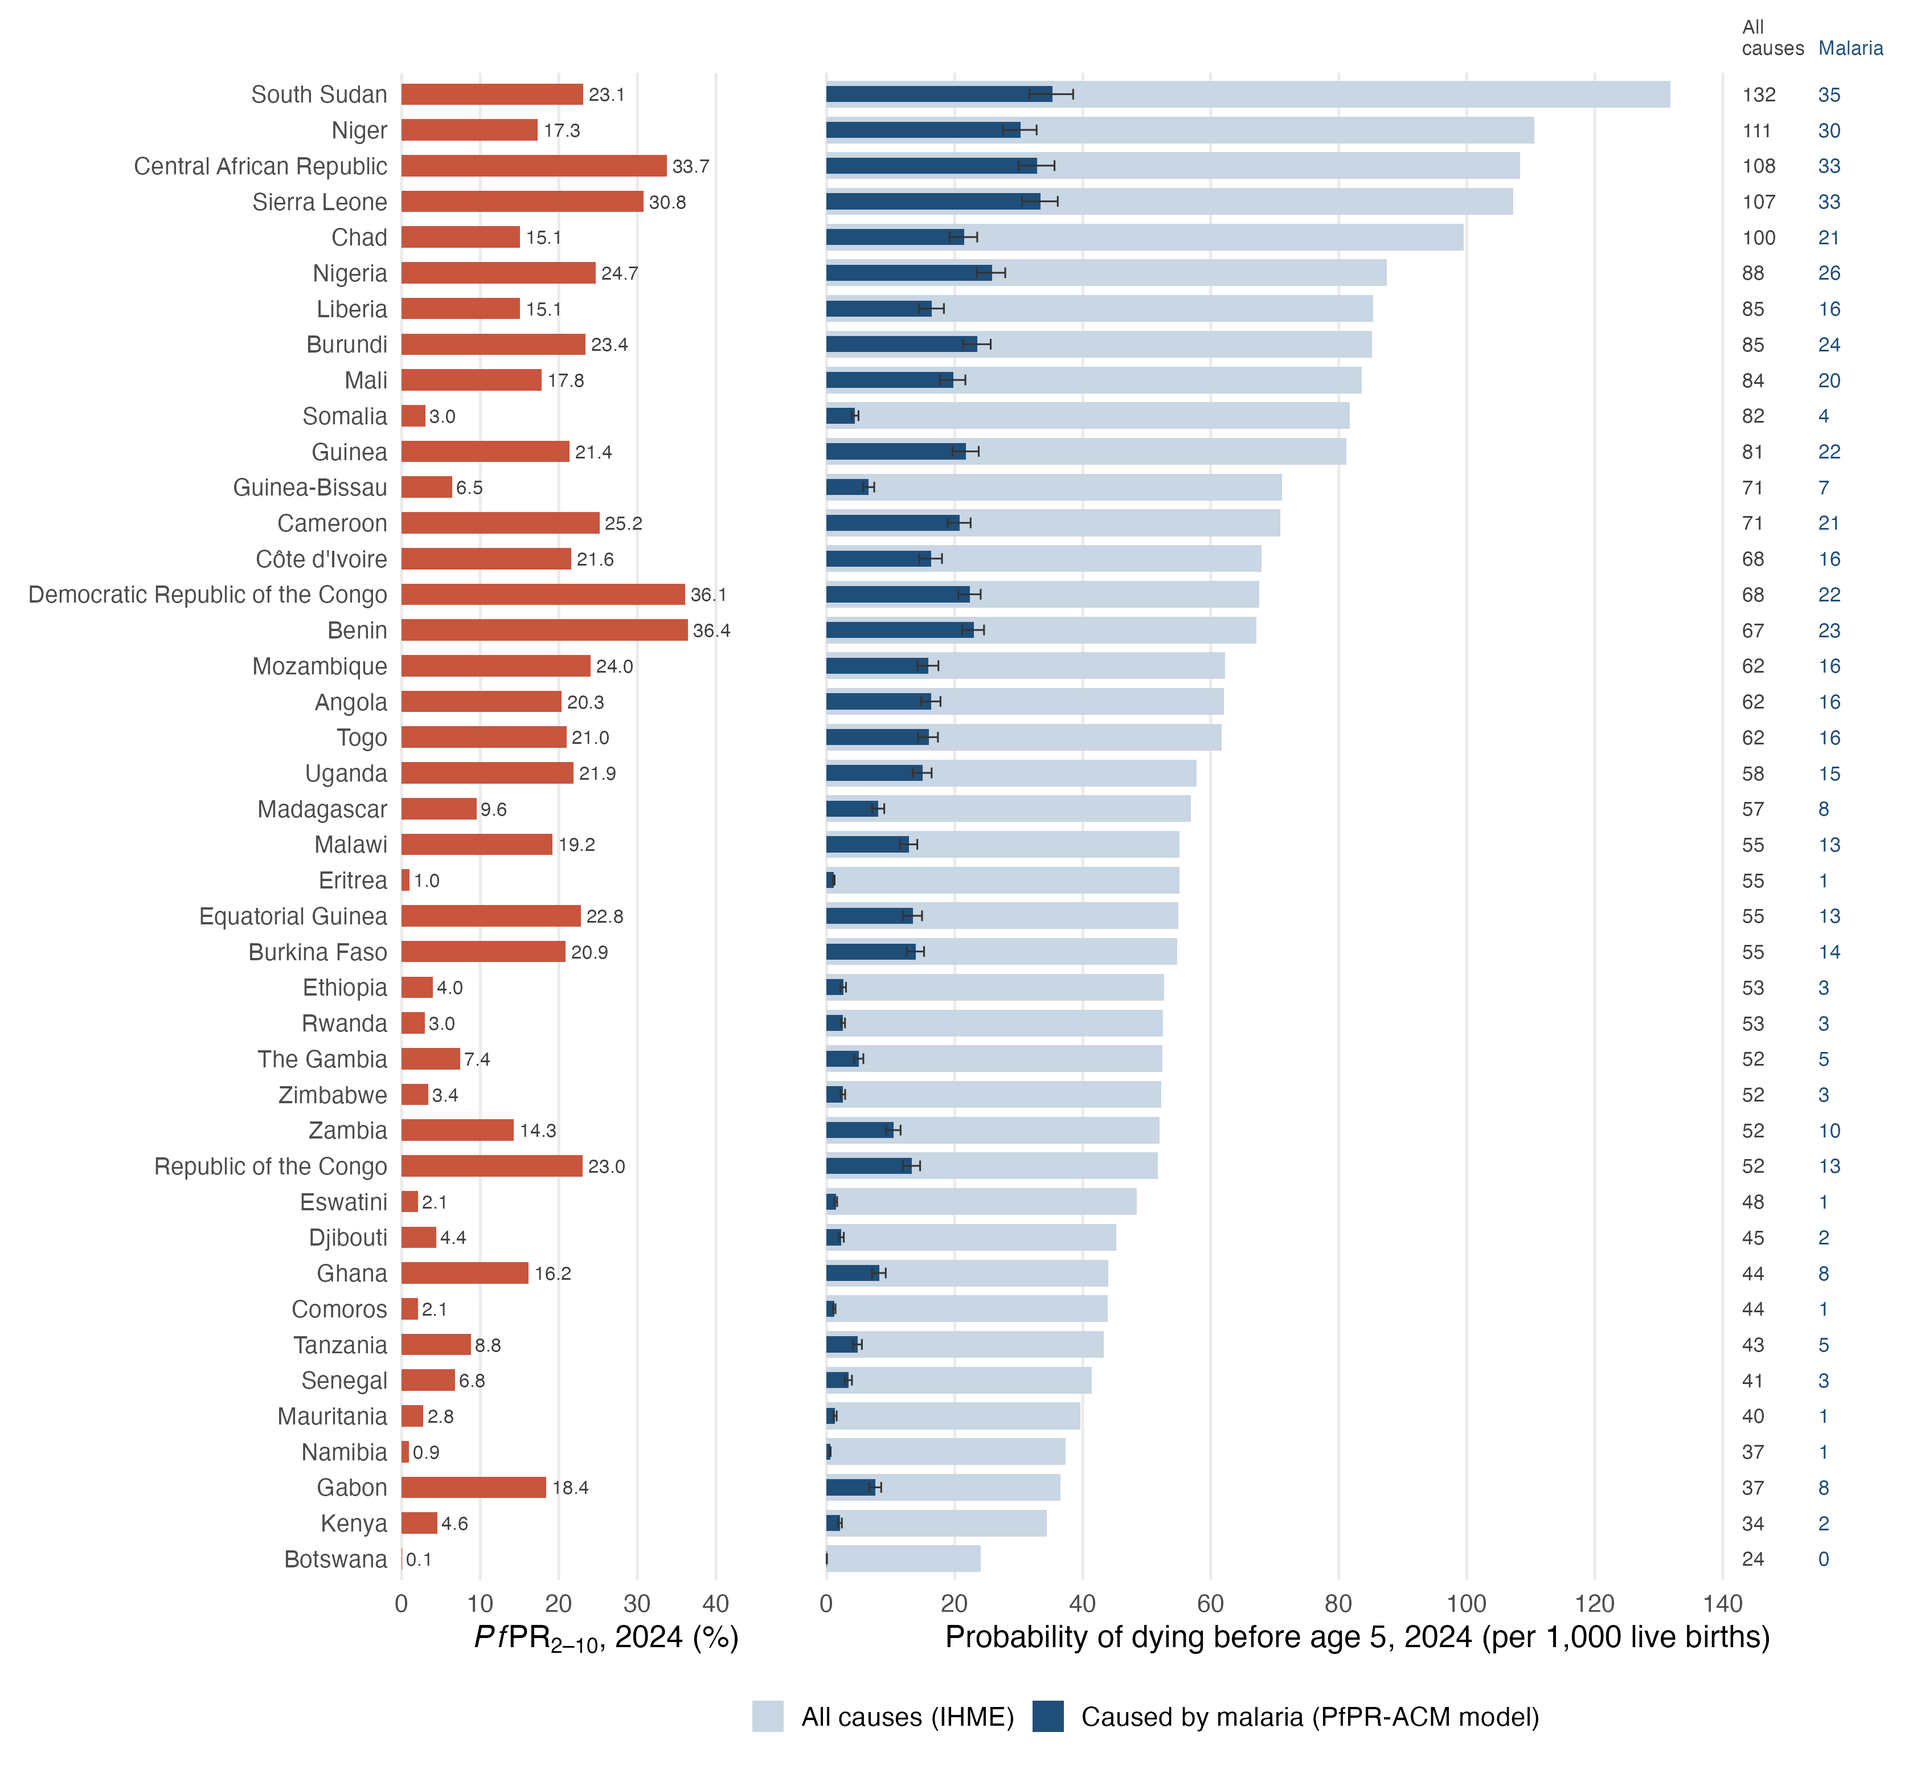
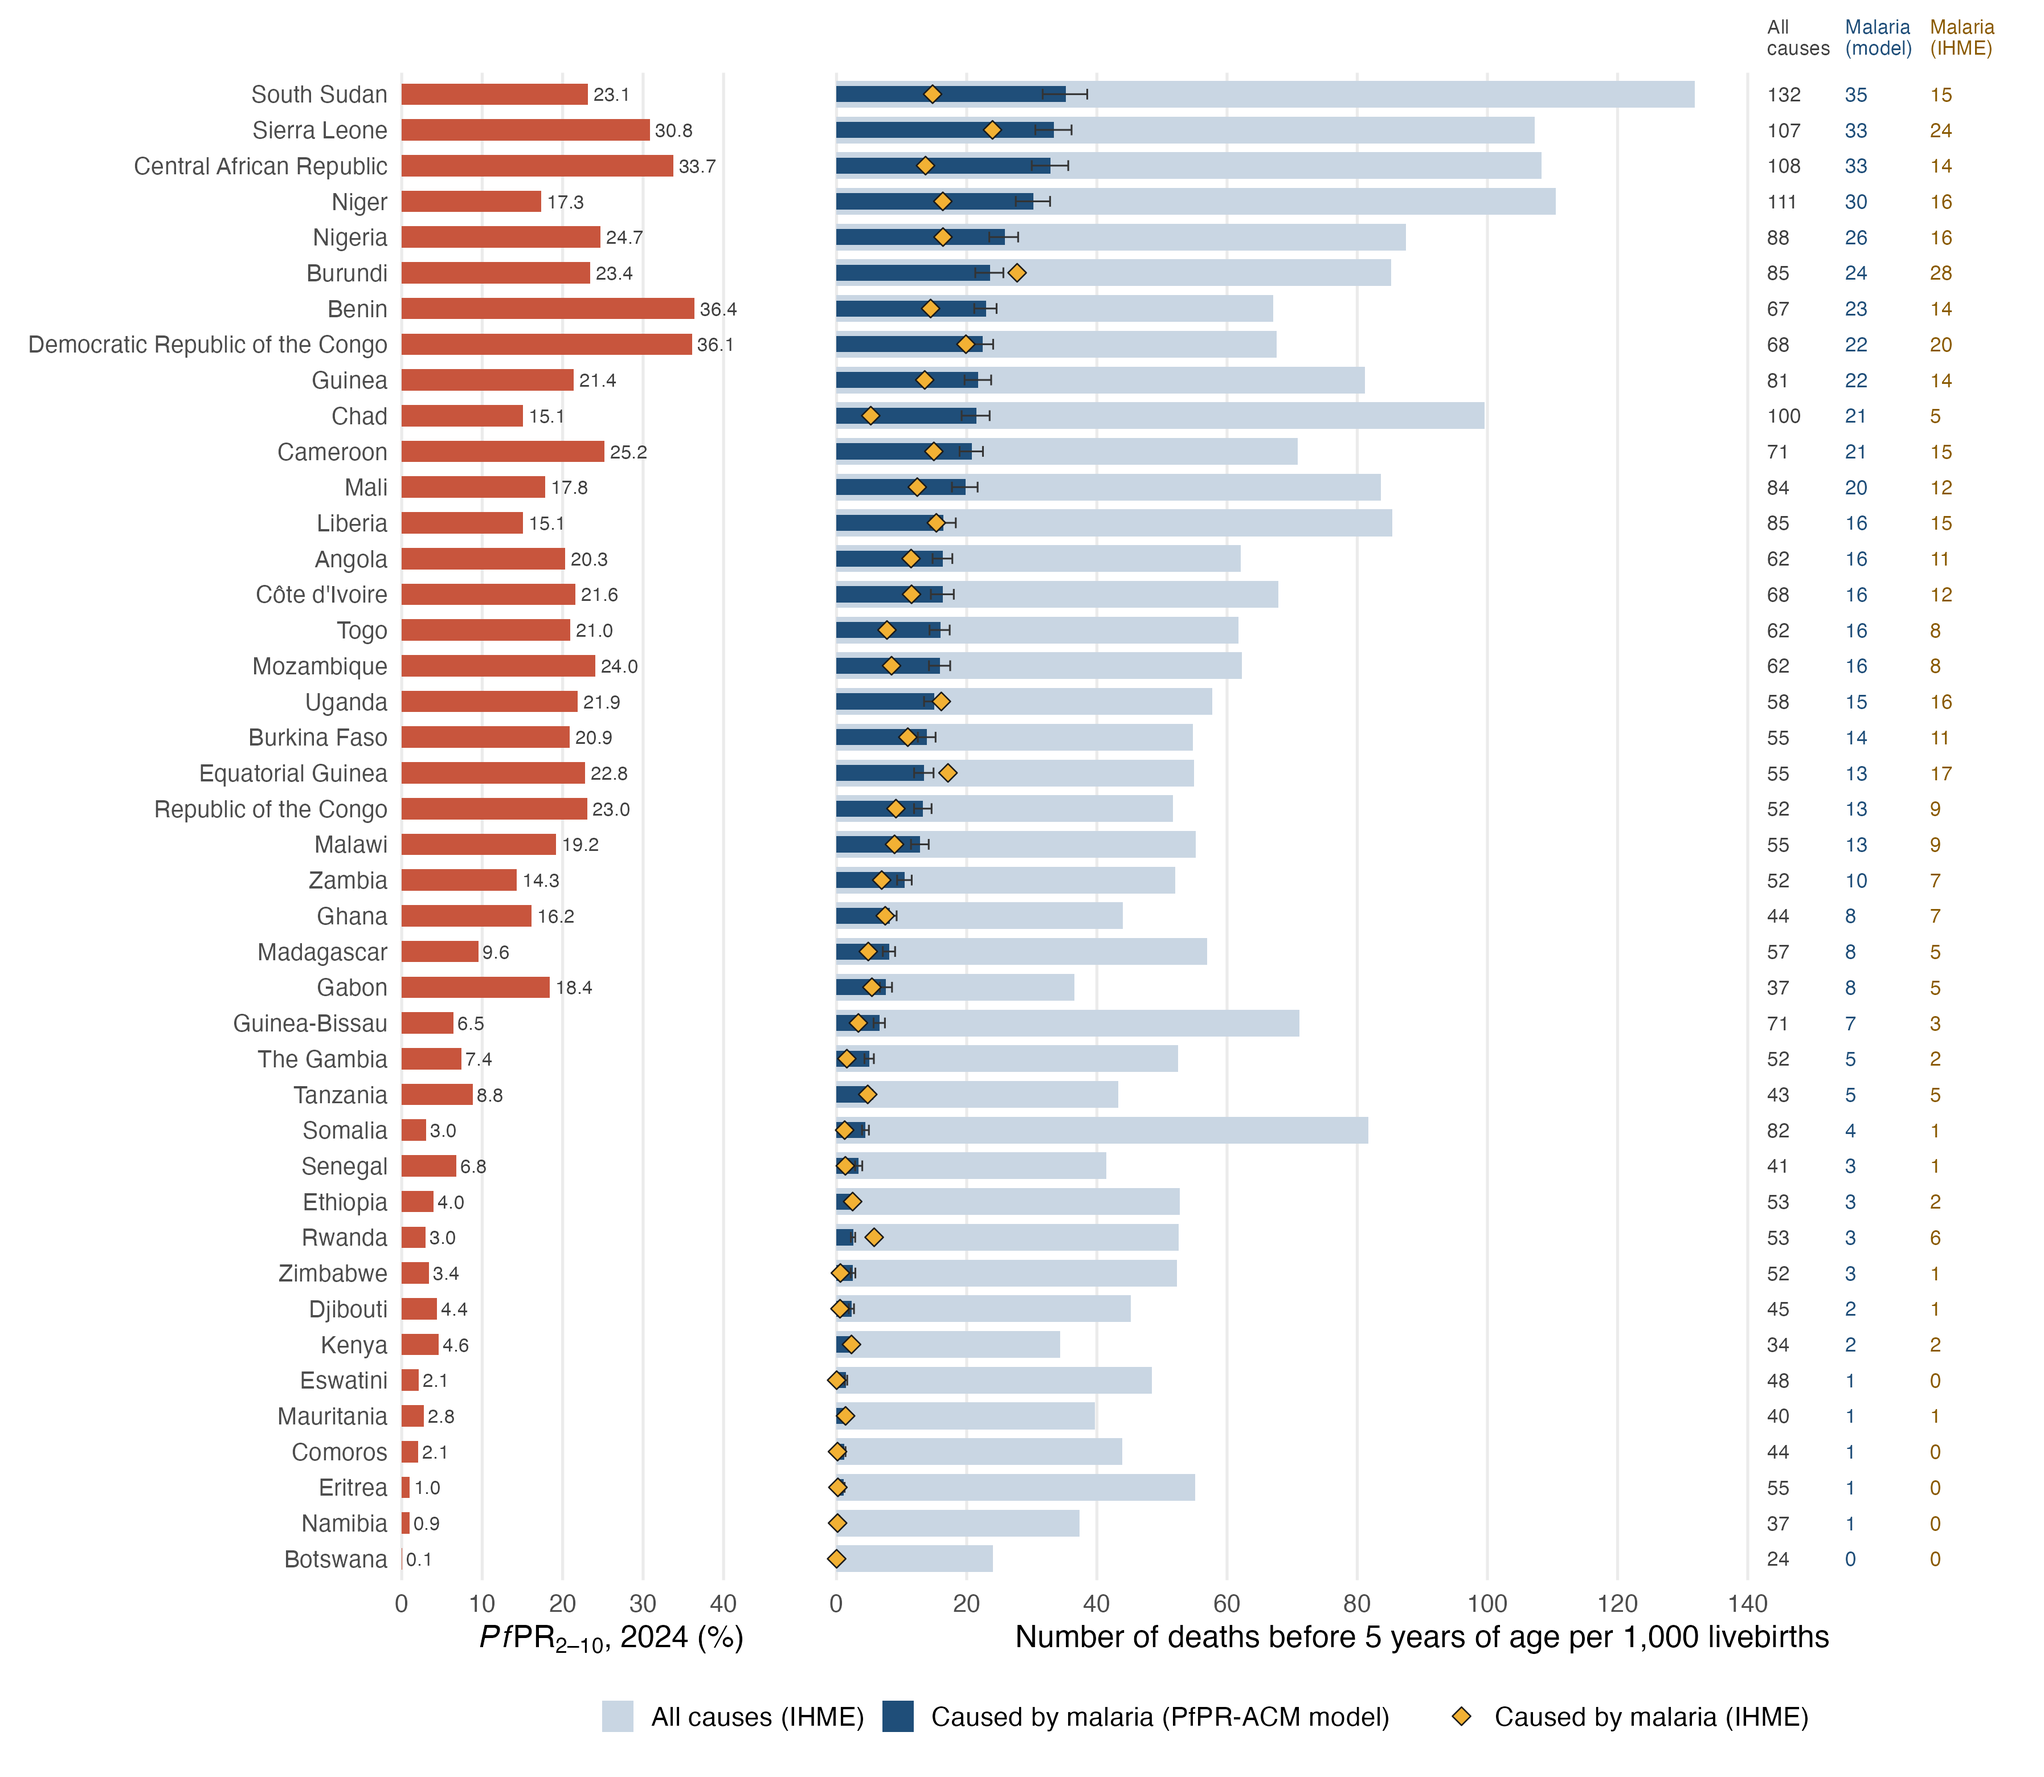
Figure 4: sort by malaria-caused probability, add IHME malaria, relabel axis
Countries are ordered by the model's malaria-caused probability. IHME's
own malaria-caused probability (5q0 minus 5q0 with IHME malaria death
rates removed by age) is added as diamonds and a third value column; the
right-panel axis reads 'Number of deaths before 5 years of age per 1,000
livebirths'. Rows still align to within 0.5 px.

diff --git a/results/cbh/primary_map_regional17_dhsmics_gamma2_v7/paper_figures/CAPTIONS.md b/results/cbh/primary_map_regional17_dhsmics_gamma2_v7/paper_figures/CAPTIONS.md
@@ -26,7 +26,7 @@ Malaria mortality before age 5 from the PfPR-ACM model compared with IHME and UN
 
 File: `fig4_under5_death_probability.png` (source `under5_probability/under5_death_probability_2024.png`; values in `under5_probability/under5_death_probability.csv`).
 
-Probability of dying before age 5 in 2024 per 1,000 live births, by country (42 sub-Saharan African countries in the burden comparison, ordered by the all-cause probability). Left: national MAP PfPR[2–10] in 2024, population-weighted (GPW 2020, all ages) over MAP-covered pixels, the prevalence at which each country's malaria-caused probability is evaluated (median 16.7%, range 0.1–36.4%). Right: all causes, from IHME age-specific all-cause death rates (light bars), and the part caused by malaria under the PfPR-ACM model (dark bars, with 95% intervals); both values are listed on the right. Probabilities are period life-table (synthetic-cohort) calculations, 5q0 = 1 − exp(−Σ_g H_g), over the model's seven age bands (<1, 1–5, 6–11, 12–23, 24–35, 36–47 and 48–59 completed months), with band cumulative hazards H_g from the IHME death rates. The malaria-caused probability is 5q0 minus the probability with malaria transmission removed, for which each band's hazard is multiplied by the model's hazard ratio for PfPR[2–10] = 0 versus the country's current population-weighted MAP prevalence. Intervals draw each band's log hazard ratio independently; they condition on the IHME rates and the fitted smoothing parameters. Zero prevalence lies below the observed exposure support, so the counterfactual is an extrapolation. Against UN IGME under-five mortality for 2024, the IHME-based all-cause probabilities have median ratio 1.07 and correlation 0.84; IHME and UN IGME differ markedly for some countries. The largest malaria-caused probabilities are in South Sudan (35 per 1,000), Sierra Leone (33) and Central African Republic (33); the median is 13 per 1,000, 21% of the all-cause probability.
+Probability of dying before age 5 in 2024 per 1,000 live births, by country (42 sub-Saharan African countries in the burden comparison, ordered by the probability caused by malaria). Left: national MAP PfPR[2–10] in 2024, population-weighted (GPW 2020, all ages) over MAP-covered pixels, the prevalence at which each country's malaria-caused probability is evaluated (median 16.7%, range 0.1–36.4%). Right: all causes, from IHME age-specific all-cause death rates (light bars), and the part caused by malaria under the PfPR-ACM model (dark bars, with 95% intervals), and the part caused by malaria implied by IHME cause-specific malaria death rates (diamonds, point estimates); all three values are listed on the right. Probabilities are period life-table (synthetic-cohort) calculations, 5q0 = 1 − exp(−Σ_g H_g), over the model's seven age bands (<1, 1–5, 6–11, 12–23, 24–35, 36–47 and 48–59 completed months), with band cumulative hazards H_g from the IHME death rates. The malaria-caused probability is 5q0 minus the probability with malaria transmission removed, for which each band's hazard is multiplied by the model's hazard ratio for PfPR[2–10] = 0 versus the country's current population-weighted MAP prevalence. The IHME value is 5q0 minus the probability with IHME's malaria death rates removed (late neonatal, post-neonatal and 1–4 years; IHME reports no early-neonatal malaria deaths). Across the 42 countries the model's malaria-caused probability is a median 1.59 times IHME's (range 0.44–83.13). Intervals draw each band's log hazard ratio independently; they condition on the IHME rates and the fitted smoothing parameters. Zero prevalence lies below the observed exposure support, so the counterfactual is an extrapolation. Against UN IGME under-five mortality for 2024, the IHME-based all-cause probabilities have median ratio 1.07 and correlation 0.84; IHME and UN IGME differ markedly for some countries. The largest malaria-caused probabilities are in South Sudan (35 per 1,000), Sierra Leone (33) and Central African Republic (33); the median is 13 per 1,000, 21% of the all-cause probability.
 
 ## Supplementary figure — PfPR and mortality by age (formerly Figure 2)
 

diff --git a/results/cbh/primary_map_regional17_dhsmics_gamma2_v7/under5_probability/CAPTION.md b/results/cbh/primary_map_regional17_dhsmics_gamma2_v7/under5_probability/CAPTION.md
@@ -1,3 +1,3 @@
 # Figure 4 caption
 
-Probability of dying before age 5 in 2024 per 1,000 live births, by country (42 sub-Saharan African countries in the burden comparison, ordered by the all-cause probability). Left: national MAP PfPR[2–10] in 2024, population-weighted (GPW 2020, all ages) over MAP-covered pixels, the prevalence at which each country's malaria-caused probability is evaluated (median 16.7%, range 0.1–36.4%). Right: all causes, from IHME age-specific all-cause death rates (light bars), and the part caused by malaria under the PfPR-ACM model (dark bars, with 95% intervals); both values are listed on the right. Probabilities are period life-table (synthetic-cohort) calculations, 5q0 = 1 − exp(−Σ_g H_g), over the model's seven age bands (<1, 1–5, 6–11, 12–23, 24–35, 36–47 and 48–59 completed months), with band cumulative hazards H_g from the IHME death rates. The malaria-caused probability is 5q0 minus the probability with malaria transmission removed, for which each band's hazard is multiplied by the model's hazard ratio for PfPR[2–10] = 0 versus the country's current population-weighted MAP prevalence. Intervals draw each band's log hazard ratio independently; they condition on the IHME rates and the fitted smoothing parameters. Zero prevalence lies below the observed exposure support, so the counterfactual is an extrapolation. Against UN IGME under-five mortality for 2024, the IHME-based all-cause probabilities have median ratio 1.07 and correlation 0.84; IHME and UN IGME differ markedly for some countries. The largest malaria-caused probabilities are in South Sudan (35 per 1,000), Sierra Leone (33) and Central African Republic (33); the median is 13 per 1,000, 21% of the all-cause probability.
+Probability of dying before age 5 in 2024 per 1,000 live births, by country (42 sub-Saharan African countries in the burden comparison, ordered by the probability caused by malaria). Left: national MAP PfPR[2–10] in 2024, population-weighted (GPW 2020, all ages) over MAP-covered pixels, the prevalence at which each country's malaria-caused probability is evaluated (median 16.7%, range 0.1–36.4%). Right: all causes, from IHME age-specific all-cause death rates (light bars), and the part caused by malaria under the PfPR-ACM model (dark bars, with 95% intervals), and the part caused by malaria implied by IHME cause-specific malaria death rates (diamonds, point estimates); all three values are listed on the right. Probabilities are period life-table (synthetic-cohort) calculations, 5q0 = 1 − exp(−Σ_g H_g), over the model's seven age bands (<1, 1–5, 6–11, 12–23, 24–35, 36–47 and 48–59 completed months), with band cumulative hazards H_g from the IHME death rates. The malaria-caused probability is 5q0 minus the probability with malaria transmission removed, for which each band's hazard is multiplied by the model's hazard ratio for PfPR[2–10] = 0 versus the country's current population-weighted MAP prevalence. The IHME value is 5q0 minus the probability with IHME's malaria death rates removed (late neonatal, post-neonatal and 1–4 years; IHME reports no early-neonatal malaria deaths). Across the 42 countries the model's malaria-caused probability is a median 1.59 times IHME's (range 0.44–83.13). Intervals draw each band's log hazard ratio independently; they condition on the IHME rates and the fitted smoothing parameters. Zero prevalence lies below the observed exposure support, so the counterfactual is an extrapolation. Against UN IGME under-five mortality for 2024, the IHME-based all-cause probabilities have median ratio 1.07 and correlation 0.84; IHME and UN IGME differ markedly for some countries. The largest malaria-caused probabilities are in South Sudan (35 per 1,000), Sierra Leone (33) and Central African Republic (33); the median is 13 per 1,000, 21% of the all-cause probability.
